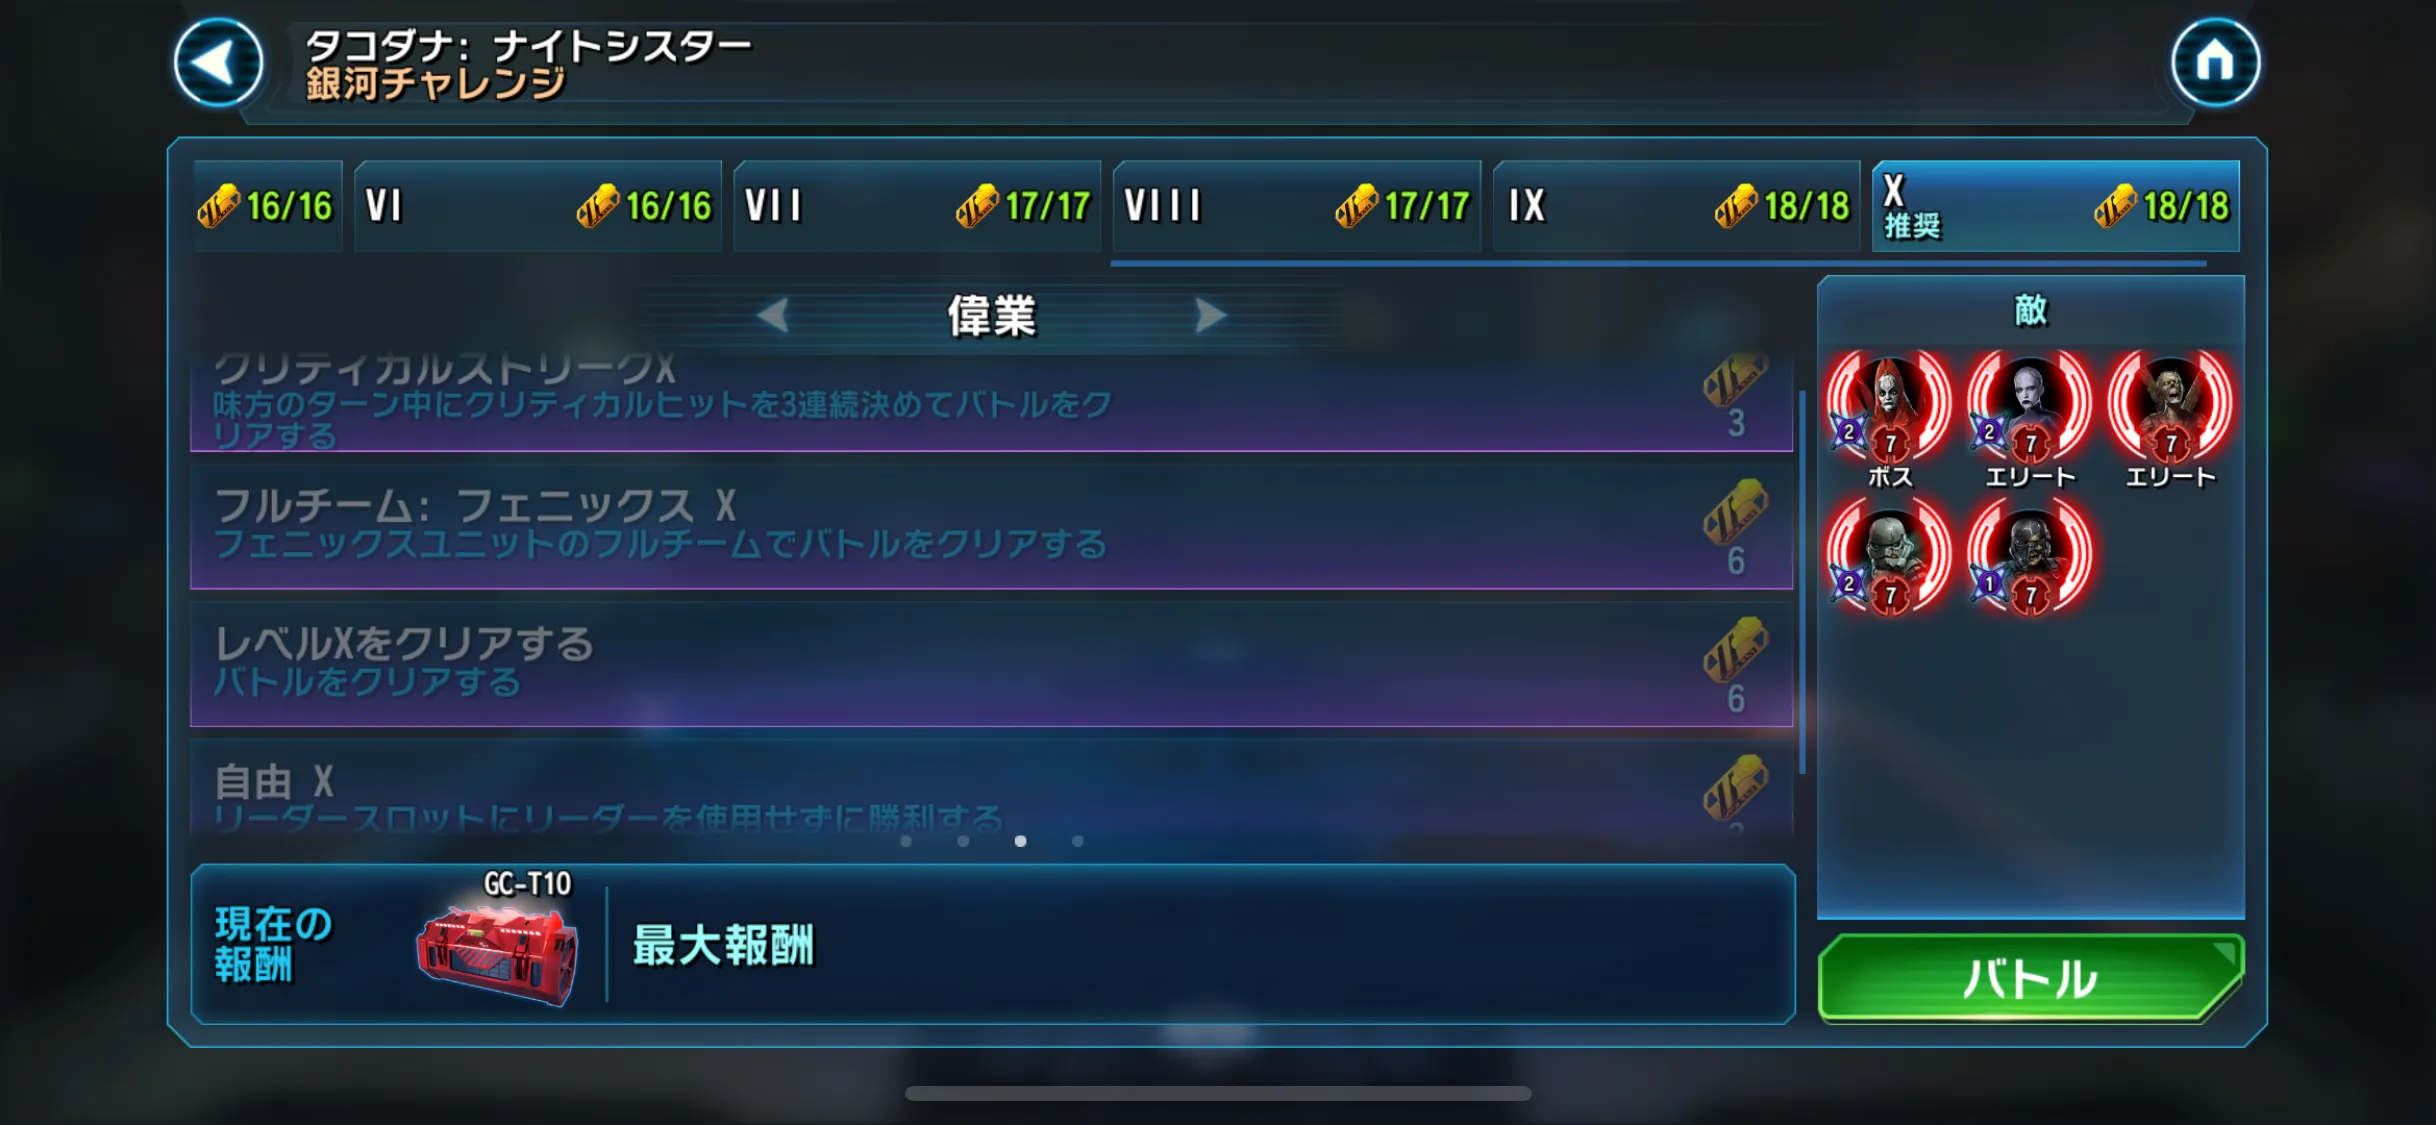
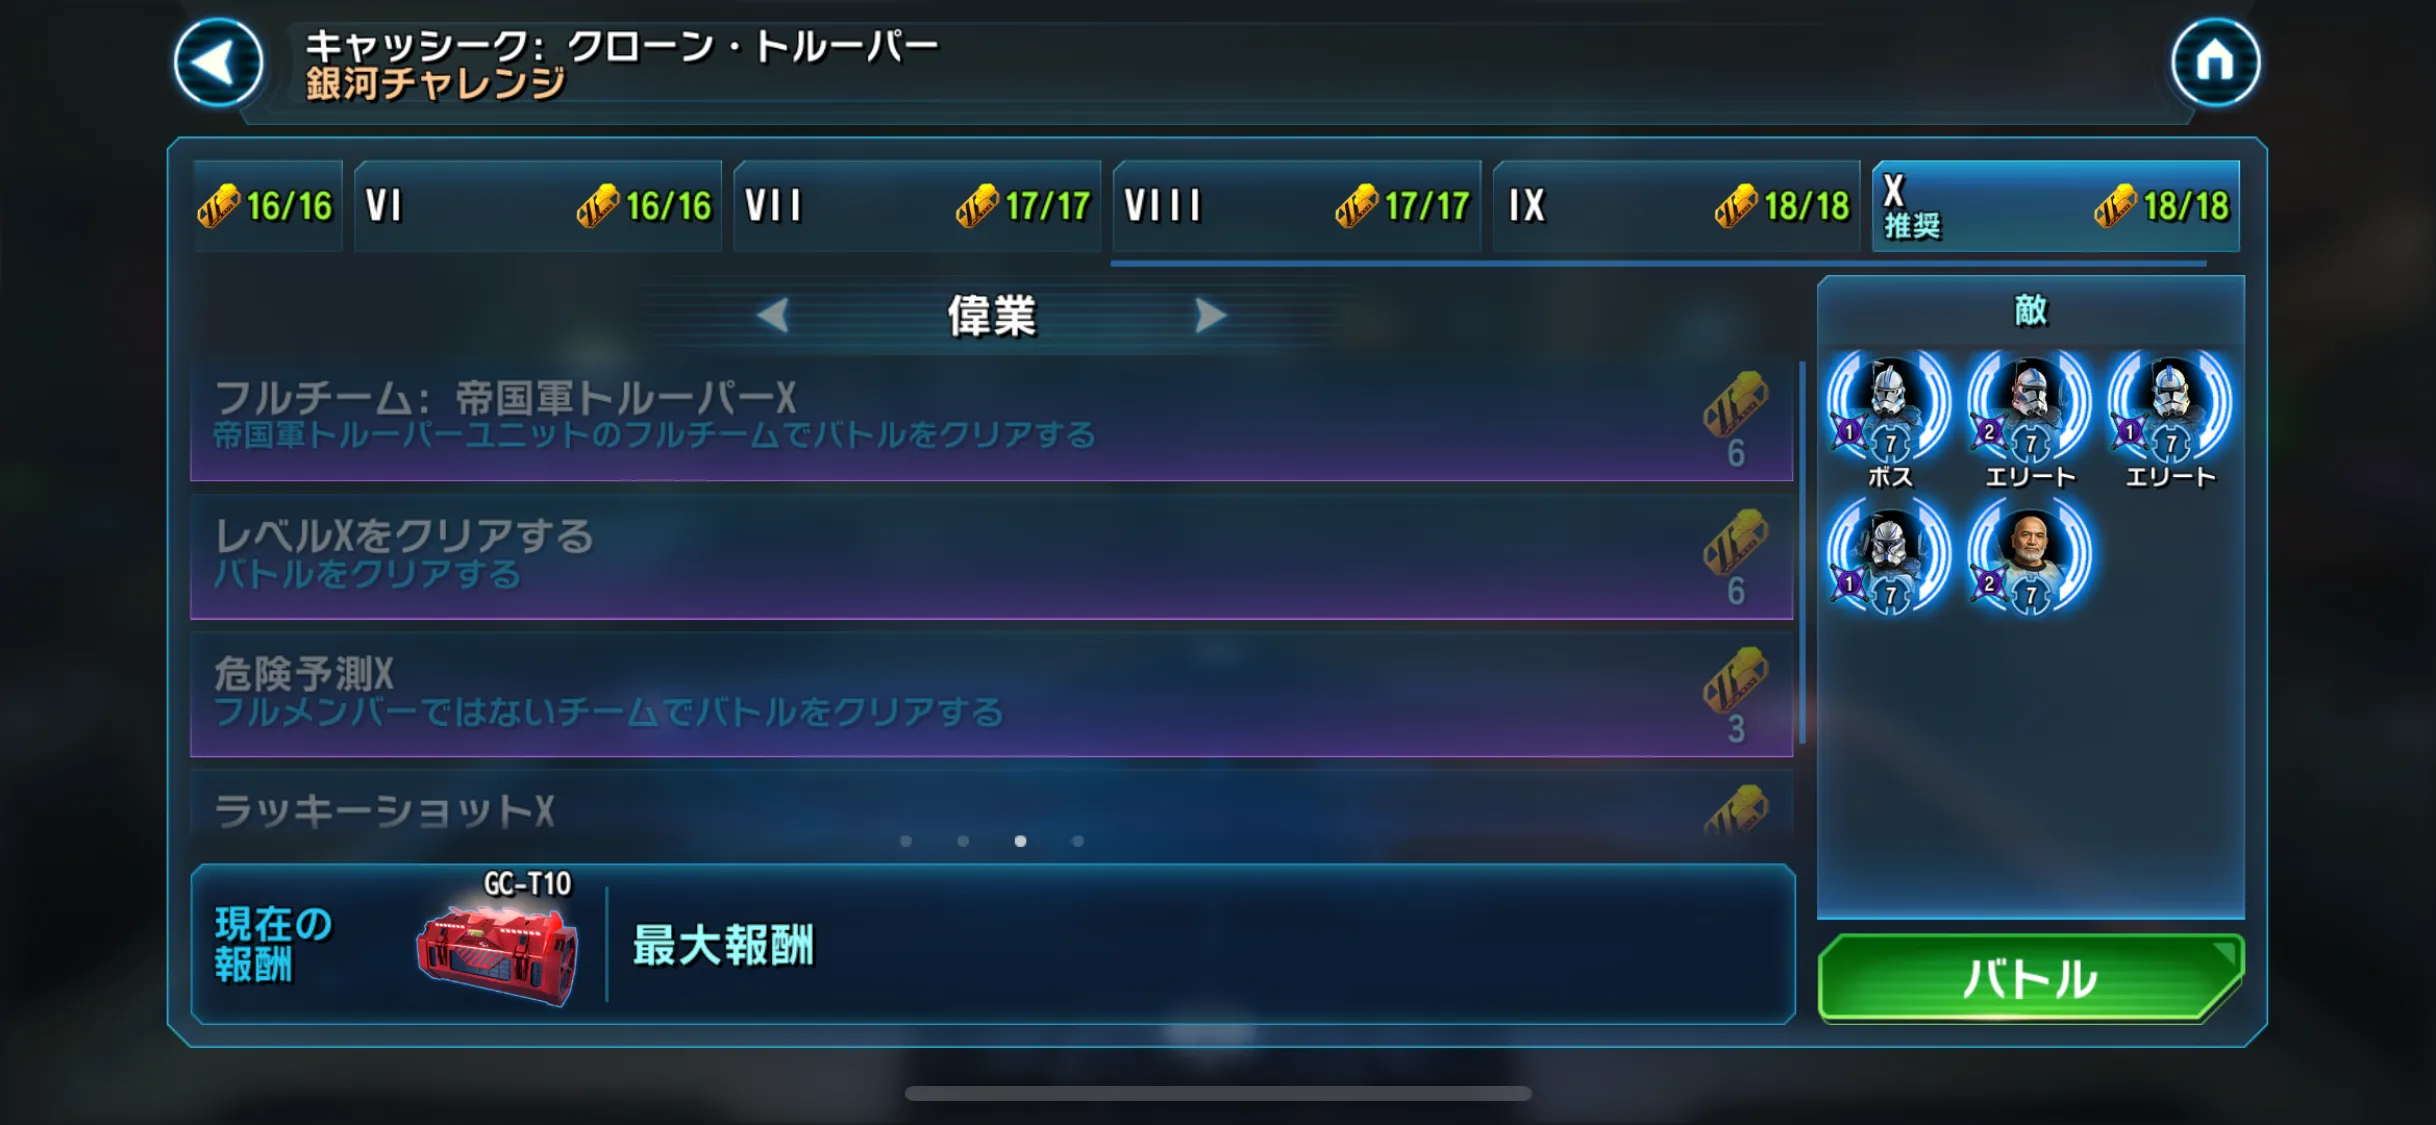
GC411更新

Changed region(s): [[0.0624, 0.3111, 0.936, 0.7467], [0.1248, 0.0, 0.3744, 0.0622]]

diff --git a/galactic_challenge.php b/galactic_challenge.php
@@ -119,123 +119,113 @@
 
 				<hr>
 
-				<!-- <h4>攻略のポイント</h4>
+				<h4>攻略のポイント</h4>
 				<ul>
-					<li>「自由」以外は同一編成でクリアできました。<br>
-					グローバルボーナス「安全な避難場所」の効果により先にダメージを与えるとデスマークが付与されてしまうので、
-					C.レックスのスピードはほどほどが良さそうです。</li>
-				</ul> -->
+					<li>「フルチーム」「ラッキーショット」同一編成（帝国軍トルーパー）でクリアです。<br>
+					プレイヤーボーナス「帝国軍アーマー」の効果で、
+					ドロイド以外の帝国軍トルーパーは初めて戦闘不能になった際にHP 100%、プロテクション 75%で復活します。</li>
+					<li>敵のキャプテン・レックスが動き始めると、こちらに「めまい」が付与されて一気にやられてしまいます。<br>
+					先手を取れるようモフ・ギデオンのスピードを可能な限り上げることをお勧めします。（参考：管理人のモフ・ギデオンのスピードは370です）
+					</li>
+				</ul>
 				
 				<h4>クリア編成</h4>
 				<ul>
-					<li>未挑戦</li>
-					<!-- <li>フルチーム：フェニックス / クリティカルストリーク<br>
-					ヘラ (R5)、キャプテン・レックス (R1)、ケイナン (G12)、チョッパー (G12)、サビーヌ (G12)</li>
-					<li>自由<br>
-					シス・トルーパー (R5)をリーダーに設定<br>
-					SLKR (R8)、ハックス (R5)、マスクなし (R7)、FOオフィサー (R5)</li> -->
+					<!-- <li>未挑戦</li> -->
+					<li>フルチーム：帝国軍トルーパー / ラッキーショット<br>
+					ヴィアーズ将軍 L (R5)、モフ・ギデオン (R5)、スターク大佐 (R5)、レンジ・トルーパー (R5)、ピエット提督 (R8)</li>
+					<li>危険予測<br>
+					シス・エターナルの皇帝 L (R7)、ダース・ベイン (R8)</li>
 				</ul>
 
-				<!-- <h4>フルチームのクリア動画</h4>
+				<h4>フルチームのクリア動画</h4>
+				<!-- https://youtu.be/MwELxyJ7sxE -->
 				<div class="youtube">
-					<iframe class="BLOG_video_class" allowfullscreen="" youtube-src-id="0PcmwfkDiFM" src="https://www.youtube.com/embed/0PcmwfkDiFM"></iframe>
-				</div> -->
+					<iframe class="BLOG_video_class" allowfullscreen="" youtube-src-id="MwELxyJ7sxE" src="https://www.youtube.com/embed/MwELxyJ7sxE"></iframe>
+				</div>
 				
-				<h4>最終結果：？？？</h4>
-				<!-- <img src="images/gc_result.webp" class="frame" width="90%" alt="GC結果"> -->
+				<h4>最終結果：赤箱</h4>
+				<img src="images/gc_result.webp" class="frame" width="90%" alt="GC結果">
 
 			</article>
 		</section>
 
 		<section class="content">
 			<h3 class="heading">
-				次回の銀河チャレンジ【予告】
-			</h3>
-			<article class="gc">
-				<dl>
-					<dt>GC 412 <span class="planet">カミーノ</span>：
+				【予告】GC 412 <span class="planet">カミーノ</span>：
 					<span class="enemy">銀河共和国</span><br>
 					<span class="bonus-alignment">反乱軍ファイター</span>のボーナス
-					</dt>
-					<dd>敵情報<br>
-					<ul>
-						<li>パドメ・アミダラ</li>
-						<li>ケノービ将軍</li>
-						<li>R2-D2</li>
-						<li>ジェダイ・ナイト・アナキン</li>
-						<li>アソーカ・タノ（お調子者）</li>
-					</ul>
-					</dd>
-					<dd>偉業<br>
-					<ul>
-						<li>Lingering Death：時間経過ダメージを30回発生させてバトルをクリアする</li>
-						<li>Hindered Movement：ターンメーターを400%減少させてバトルに勝利する</li>
-						<li>フルチーム：反乱軍ファイターのフルチームでバトルをクリアする</li>
-					</ul>
-					</dd>
-				</dl>
+			</h3>
+			<article class="gc">
+				<h4>敵情報</h4>
+				<ul>
+					<li>パドメ・アミダラ</li>
+					<li>ケノービ将軍</li>
+					<li>R2-D2</li>
+					<li>ジェダイ・ナイト・アナキン</li>
+					<li>アソーカ・タノ（お調子者）</li>
+				</ul>
+
+				<h4>偉業</h4>
+				<ul>
+					<li>Lingering Death：時間経過ダメージを30回発生させてバトルをクリアする</li>
+					<li>Hindered Movement：ターンメーターを400%減少させてバトルに勝利する</li>
+					<li>フルチーム：反乱軍ファイターのフルチームでバトルをクリアする</li>
+				</ul>
 				<p>※ レベルクリアの偉業は記載対象から除外しています。</p>
 			</article>
 		</section>
 
 		<section class="content">
 			<h3 class="heading">
-				次回の銀河チャレンジ【予告】
-			</h3>
-			<article class="gc">
-				<dl>
-					<dt>GC 413 <span class="planet">イラム</span>：
+				【予告】GC 413 <span class="planet">イラム</span>：
 					<span class="enemy">レジスタンス</span><br>
 					<span class="bonus-alignment">ファースト・オーダー</span>のボーナス
-					</dt>
-					<dd>敵情報<br>
-					<ul>
-						<li>フィン</li>
-						<li>ゾリ・ブリス</li>
-						<li>レジスタンスの英雄フィン</li>
-						<li>レジスタンスの英雄ポー</li>
-						<li>ポー・ダメロン</li>
-					</ul>
-					</dd>
-					<dd>偉業<br>
-					<ul>
-						<li>Shadowy Dealings：ステルスを10回得てバトルをクリアする</li>
-						<li>無防備：チームにタンクを使用せずにバトルに勝利する</li>
-						<li>フルチーム：ファースト・オーダーのフルチームでバトルをクリアする</li>
-					</ul>
-					</dd>
-				</dl>
+			</h3>
+			
+			<article class="gc">
+				<h4>敵情報</h4>
+				<ul>
+					<li>フィン</li>
+					<li>ゾリ・ブリス</li>
+					<li>レジスタンスの英雄フィン</li>
+					<li>レジスタンスの英雄ポー</li>
+					<li>ポー・ダメロン</li>
+				</ul>
+				
+				<h4>偉業</h4>
+				<ul>
+					<li>Shadowy Dealings：ステルスを10回得てバトルをクリアする</li>
+					<li>無防備：チームにタンクを使用せずにバトルに勝利する</li>
+					<li>フルチーム：ファースト・オーダーのフルチームでバトルをクリアする</li>
+				</ul>
 				<p>※ レベルクリアの偉業は記載対象から除外しています。</p>
 			</article>
 		</section>
 
 		<section class="content">
 			<h3 class="heading">
-				次回の銀河チャレンジ【予告】
-			</h3>
-			<article class="gc">
-				<dl>
-					<dt>GC 414 <span class="planet">ダソミア</span>：
+				【予告】GC 414 <span class="planet">ダソミア</span>：
 					<span class="enemy">ドロイド</span><br>
 					<span class="bonus-alignment">シス</span>のボーナス
-					</dt>
-					<dd>敵情報<br>
-					<ul>
-						<li>グリーヴァス将軍</li>
-						<li>IG-100マグナガード</li>
-						<li>B2スーパー・バトル・ドロイド</li>
-						<li>STAP</li>
-						<li>B1バトル・ドロイド</li>
-					</ul>
-					</dd>
-					<dd>偉業<br>
-					<ul>
-						<li>シンプルトリック：特殊スキルの使用3回以内でバトルに勝利する</li>
-						<li>バランス戦略：チームにライトサイド、ダークサイドユニットを1体ずつ入れ、いずれも生存した状態でバトルに勝利する</li>
-						<li>フルチーム：シスのフルチームでバトルをクリアする</li>
-					</ul>
-					</dd>
-				</dl>
+			</h3>
+			
+			<article class="gc">
+				<h4>敵情報</h4>
+				<ul>
+					<li>グリーヴァス将軍</li>
+					<li>IG-100マグナガード</li>
+					<li>B2スーパー・バトル・ドロイド</li>
+					<li>STAP</li>
+					<li>B1バトル・ドロイド</li>
+				</ul>
+
+				<h4>偉業</h4>
+				<ul>
+					<li>シンプルトリック：特殊スキルの使用3回以内でバトルに勝利する</li>
+					<li>バランス戦略：チームにライトサイド、ダークサイドユニットを1体ずつ入れ、いずれも生存した状態でバトルに勝利する</li>
+					<li>フルチーム：シスのフルチームでバトルをクリアする</li>
+				</ul>
 				<p>※ レベルクリアの偉業は記載対象から除外しています。</p>
 			</article>
 		</section>
